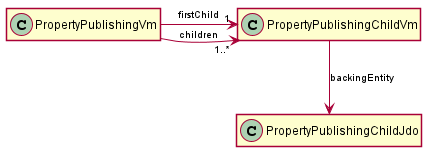
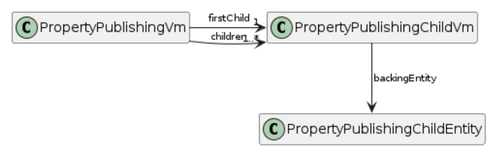
CAUSEWAY-2485: reworks @Property#projecting

diff --git a/examples/demo/domain/src/main/java/demoapp/dom/domain/properties/Property/projecting/PropertyProjectingChildVm.java b/examples/demo/domain/src/main/java/demoapp/dom/domain/properties/Property/projecting/PropertyProjectingChildVm.java
@@ -16,7 +16,7 @@
  *  specific language governing permissions and limitations
  *  under the License.
  */
-package demoapp.dom.domain.properties.Property.projecting.child;
+package demoapp.dom.domain.properties.Property.projecting;
 
 import javax.inject.Named;
 import javax.xml.bind.annotation.XmlAccessType;
@@ -41,18 +41,16 @@ import lombok.Setter;
 import demoapp.dom._infra.asciidocdesc.HasAsciiDocDescription;
 import demoapp.dom.domain.properties.Property.projecting.jdo.PropertyProjectingChildJdo;
 import demoapp.dom.domain.properties.Property.projecting.jpa.PropertyProjectingChildJpa;
-import demoapp.dom.domain.properties.Property.projecting.persistence.PropertyProjectingChildEntity;
 
 //tag::class[]
 @XmlRootElement(name = "child")
 @XmlType
 @XmlAccessorType(XmlAccessType.FIELD)
 @Named("demo.PropertyProjectingChildVm")
-@DomainObject(
-        nature=Nature.VIEW_MODEL)
+@DomainObject(nature=Nature.VIEW_MODEL)
 @NoArgsConstructor
 public class PropertyProjectingChildVm implements HasAsciiDocDescription {
-
+    // ...
 //end::class[]
     public PropertyProjectingChildVm(final PropertyProjectingChildEntity backingEntity) {
         setBackingEntity(backingEntity);
@@ -70,31 +68,9 @@ public class PropertyProjectingChildVm implements HasAsciiDocDescription {
         projecting = Projecting.PROJECTED       // <.>
     )
     @PropertyLayout(hidden = Where.EVERYWHERE)  // <.>
-    public PropertyProjectingChildEntity getBackingEntity() {
-        return backingEntityJpa!=null
-                ? backingEntityJpa
-                : backingEntityJdo;
-    }
-    public void setBackingEntity(final PropertyProjectingChildEntity backingEntity) {
-        this.backingEntityJpa = backingEntity instanceof PropertyProjectingChildJpa
-                ? (PropertyProjectingChildJpa) backingEntity
-                : null;
-        this.backingEntityJdo = backingEntity instanceof PropertyProjectingChildJdo
-                ? (PropertyProjectingChildJdo) backingEntity
-                : null;
-    }
+    @XmlElement(required = true)
+    @Getter @Setter
+    private PropertyProjectingChildEntity backingEntity;
 //end::projecting[]
-//end::class[]
-    @Programmatic
-    @XmlElement(required = false)
-    @Getter @Setter
-    private PropertyProjectingChildJpa backingEntityJpa;
-
-    @Programmatic
-    @XmlElement(required = false)
-    @Getter @Setter
-    private PropertyProjectingChildJdo backingEntityJdo;
-//tag::class[]
-    // ..
 }
 //end::class[]

diff --git a/examples/demo/domain/src/main/java/demoapp/dom/domain/properties/Property/PropertyMenu.java b/examples/demo/domain/src/main/java/demoapp/dom/domain/properties/Property/PropertyMenu.java
@@ -46,8 +46,8 @@ import demoapp.dom.domain.properties.Property.maxLength.PropertyMaxLengthPage;
 import demoapp.dom.domain.properties.Property.mustSatisfy.PropertyMustSatisfyPage;
 import demoapp.dom.domain.properties.Property.optionality.PropertyOptionalityPage;
 import demoapp.dom.domain.properties.Property.projecting.PropertyProjectingPage;
-import demoapp.dom.domain.properties.Property.projecting.child.PropertyProjectingChildVm;
-import demoapp.dom.domain.properties.Property.projecting.persistence.PropertyProjectingChildEntity;
+import demoapp.dom.domain.properties.Property.projecting.PropertyProjectingChildVm;
+import demoapp.dom.domain.properties.Property.projecting.PropertyProjectingChildEntity;
 import demoapp.dom.domain.properties.Property.regexPattern.PropertyRegexPatternPage;
 import demoapp.dom.domain.properties.Property.snapshot.PropertySnapshotPage;
 import demoapp.dom.types.Samples;

diff --git a/examples/demo/domain/src/main/java/demoapp/dom/domain/properties/Property/projecting/PropertyProjectingChildEntity.java b/examples/demo/domain/src/main/java/demoapp/dom/domain/properties/Property/projecting/PropertyProjectingChildEntity.java
@@ -16,16 +16,19 @@
  *  specific language governing permissions and limitations
  *  under the License.
  */
-package demoapp.dom.domain.properties.Property.projecting.persistence;
+package demoapp.dom.domain.properties.Property.projecting;
 
 import javax.inject.Named;
+import javax.xml.bind.annotation.adapters.XmlJavaTypeAdapter;
 
 import org.apache.causeway.applib.annotation.DomainObject;
+import org.apache.causeway.applib.jaxb.PersistentEntityAdapter;
 
 import demoapp.dom._infra.asciidocdesc.HasAsciiDocDescription;
 import demoapp.dom._infra.values.ValueHolder;
 
 @Named("demo.PropertyProjectingChildEntity") // shared permissions with concrete sub class
+@XmlJavaTypeAdapter(PersistentEntityAdapter.class)
 @DomainObject
 public abstract class PropertyProjectingChildEntity
 implements

diff --git a/examples/demo/domain/src/main/java/demoapp/dom/domain/properties/Property/projecting/PropertyProjectingChildSeeding.java b/examples/demo/domain/src/main/java/demoapp/dom/domain/properties/Property/projecting/PropertyProjectingChildSeeding.java
@@ -16,7 +16,7 @@
  *  specific language governing permissions and limitations
  *  under the License.
  */
-package demoapp.dom.domain.properties.Property.projecting.persistence;
+package demoapp.dom.domain.properties.Property.projecting;
 
 import javax.inject.Inject;
 
@@ -24,6 +24,7 @@ import org.springframework.stereotype.Service;
 
 import demoapp.dom._infra.seed.SeedServiceAbstract;
 import demoapp.dom._infra.values.ValueHolderRepository;
+import demoapp.dom.domain.properties.Property.projecting.PropertyProjectingChildEntity;
 
 @Service
 public class PropertyProjectingChildSeeding

diff --git a/examples/demo/domain/src/main/java/demoapp/dom/domain/properties/Property/projecting/jdo/PropertyProjectingChildJdo.java b/examples/demo/domain/src/main/java/demoapp/dom/domain/properties/Property/projecting/jdo/PropertyProjectingChildJdo.java
@@ -37,7 +37,7 @@ import org.apache.causeway.applib.jaxb.PersistentEntityAdapter;
 import lombok.Getter;
 import lombok.Setter;
 
-import demoapp.dom.domain.properties.Property.projecting.persistence.PropertyProjectingChildEntity;
+import demoapp.dom.domain.properties.Property.projecting.PropertyProjectingChildEntity;
 
 @Profile("demo-jdo")
 //tag::class[]

diff --git a/examples/demo/domain/src/main/java/demoapp/dom/domain/properties/Property/projecting/jpa/PropertyProjectingChildJpa.java b/examples/demo/domain/src/main/java/demoapp/dom/domain/properties/Property/projecting/jpa/PropertyProjectingChildJpa.java
@@ -39,7 +39,7 @@ import lombok.Getter;
 import lombok.NoArgsConstructor;
 import lombok.Setter;
 
-import demoapp.dom.domain.properties.Property.projecting.persistence.PropertyProjectingChildEntity;
+import demoapp.dom.domain.properties.Property.projecting.PropertyProjectingChildEntity;
 
 @Profile("demo-jpa")
 //tag::class[]

diff --git a/examples/demo/domain/src/main/java/demoapp/dom/domain/properties/Property/projecting/PropertyProjectingPage.java b/examples/demo/domain/src/main/java/demoapp/dom/domain/properties/Property/projecting/PropertyProjectingPage.java
@@ -41,7 +41,6 @@ import lombok.NoArgsConstructor;
 import lombok.Setter;
 
 import demoapp.dom._infra.asciidocdesc.HasAsciiDocDescription;
-import demoapp.dom.domain.properties.Property.projecting.child.PropertyProjectingChildVm;
 
 //tag::class[]
 @XmlRootElement(name = "root")

diff --git a/examples/demo/domain/src/main/java/demoapp/dom/domain/properties/Property/projecting/PropertyProjectingPage_returnsChildren.java b/examples/demo/domain/src/main/java/demoapp/dom/domain/properties/Property/projecting/PropertyProjectingPage_returnsChildren.java
@@ -25,8 +25,6 @@ import org.apache.causeway.applib.annotation.SemanticsOf;
 
 import lombok.RequiredArgsConstructor;
 
-import demoapp.dom.domain.properties.Property.projecting.child.PropertyProjectingChildVm;
-
 @Action(
     semantics = SemanticsOf.SAFE
 )
